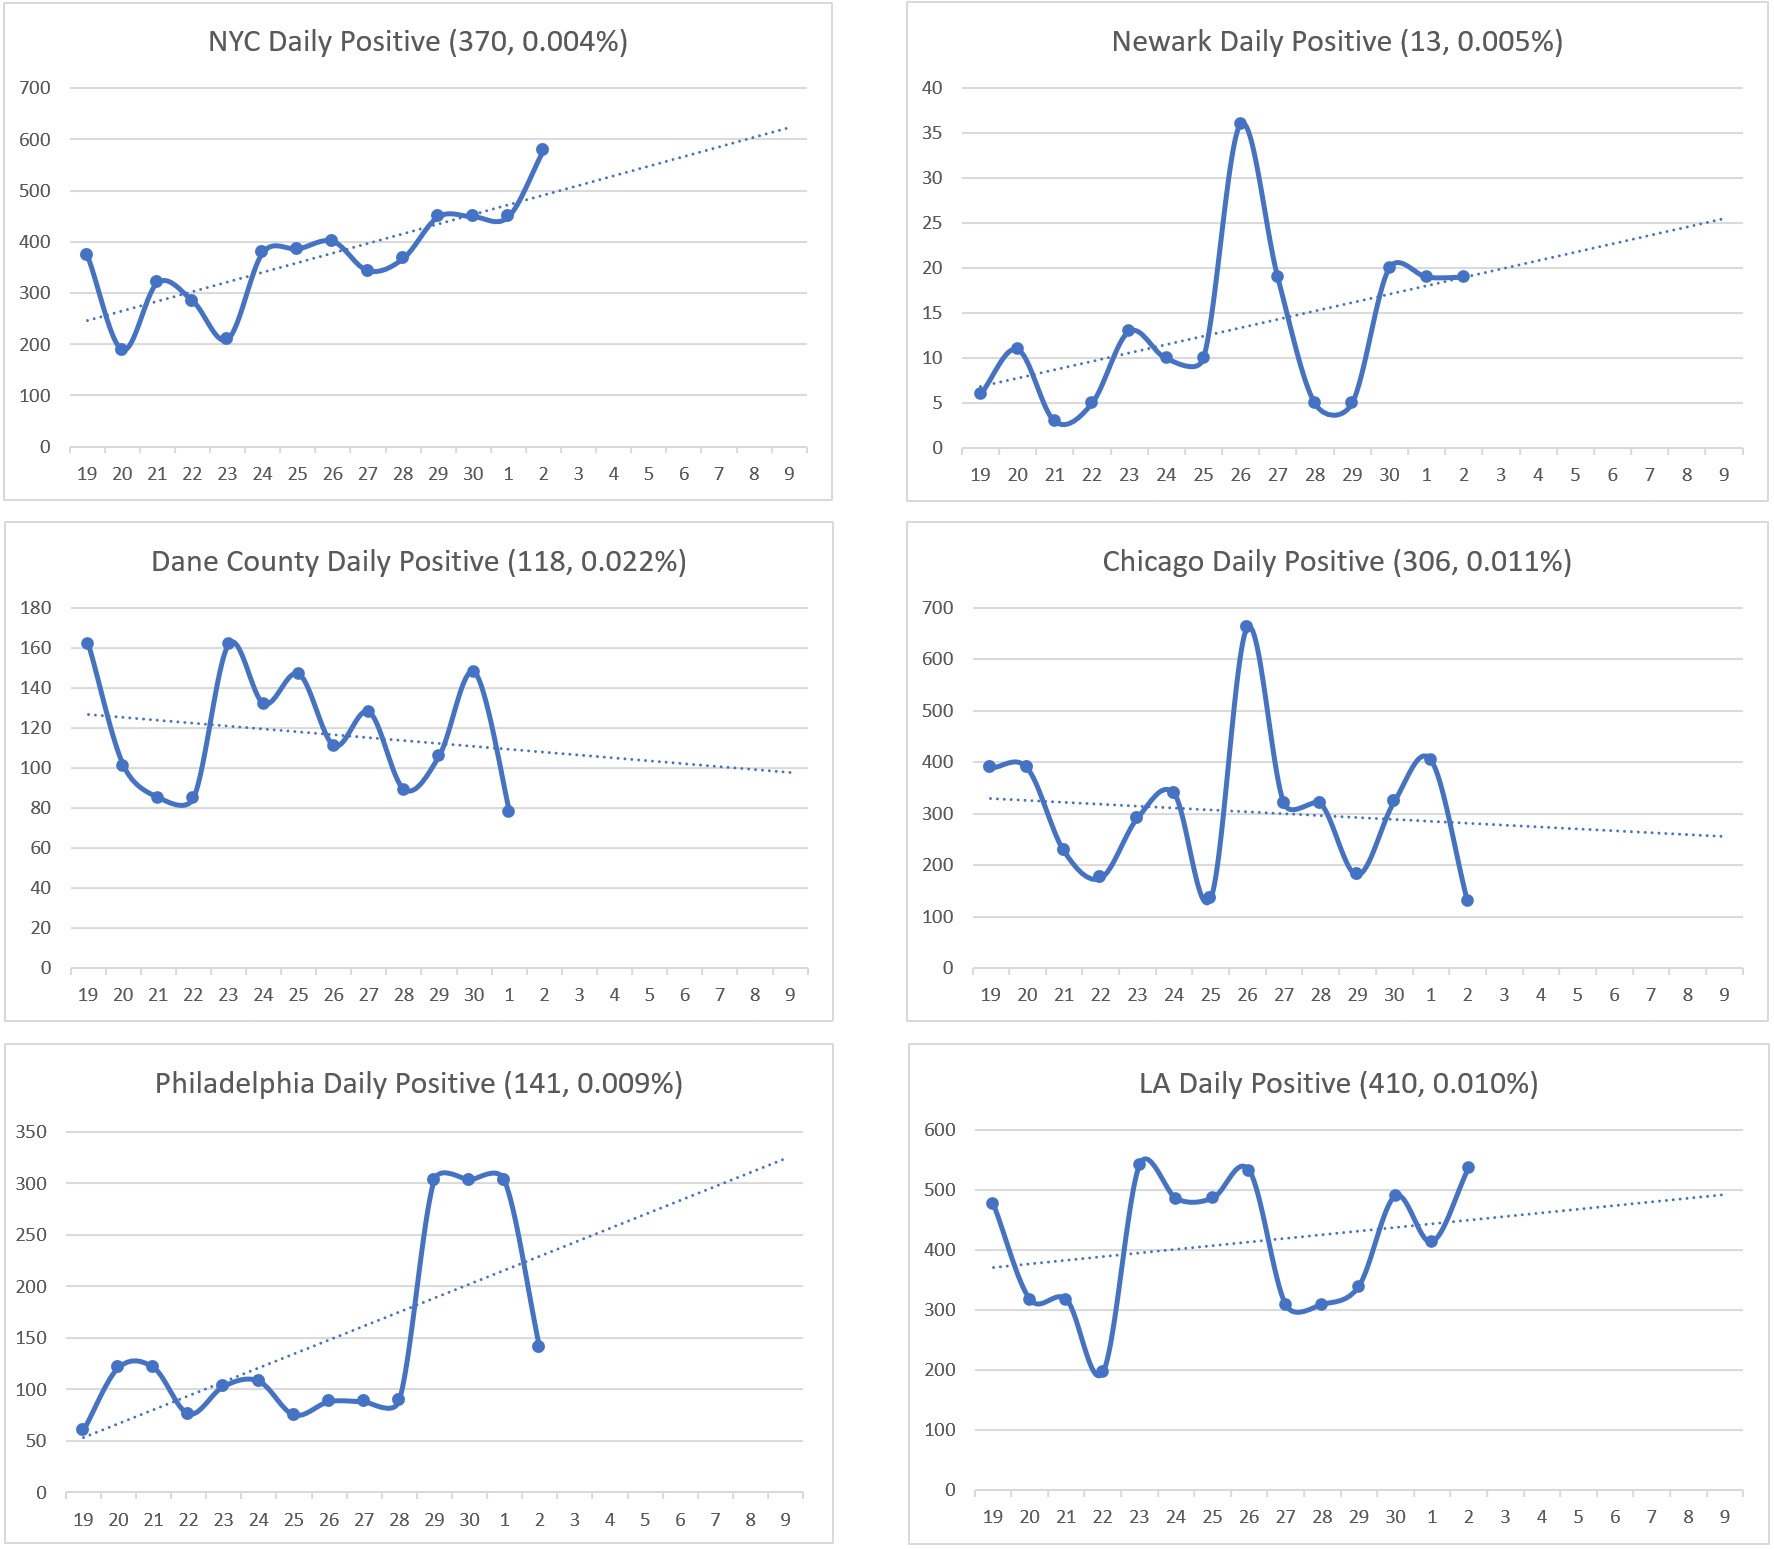
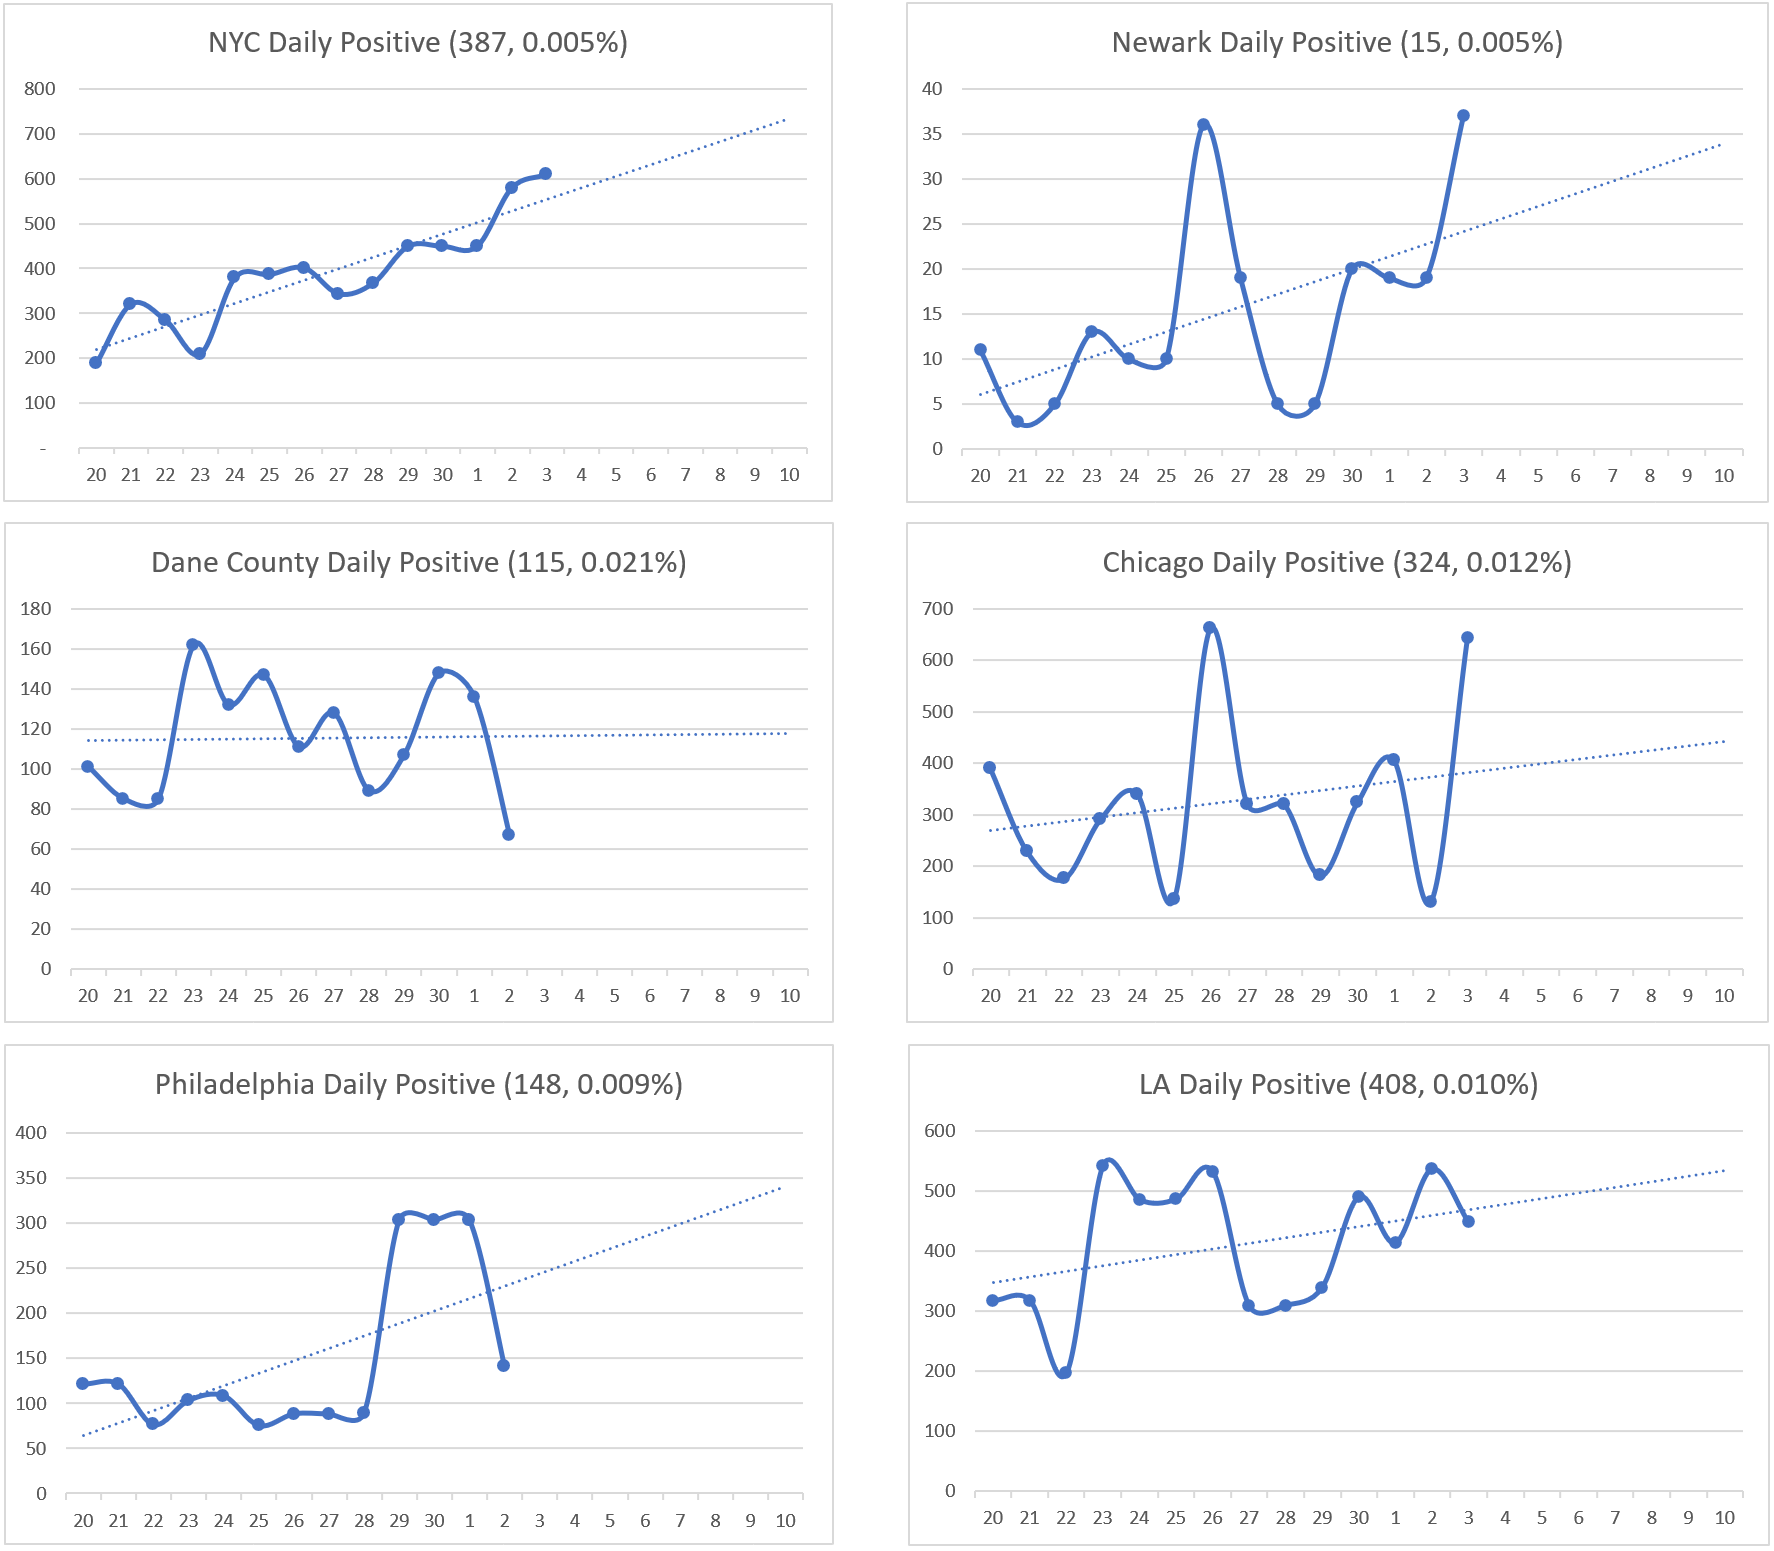
update 10/3 status

diff --git a/index.html b/index.html
@@ -19,7 +19,7 @@
 
 <body class="container-fluid">
 	<h1> CoronaV for Friends</h1>
-	<h2> Data updated at Oct 02 2020 EST 21:45</h2>
+	<h2> Data updated at Oct 03 2020 EST 20:45</h2>
 	<hr>
 	<main>
 		<div class="row">
